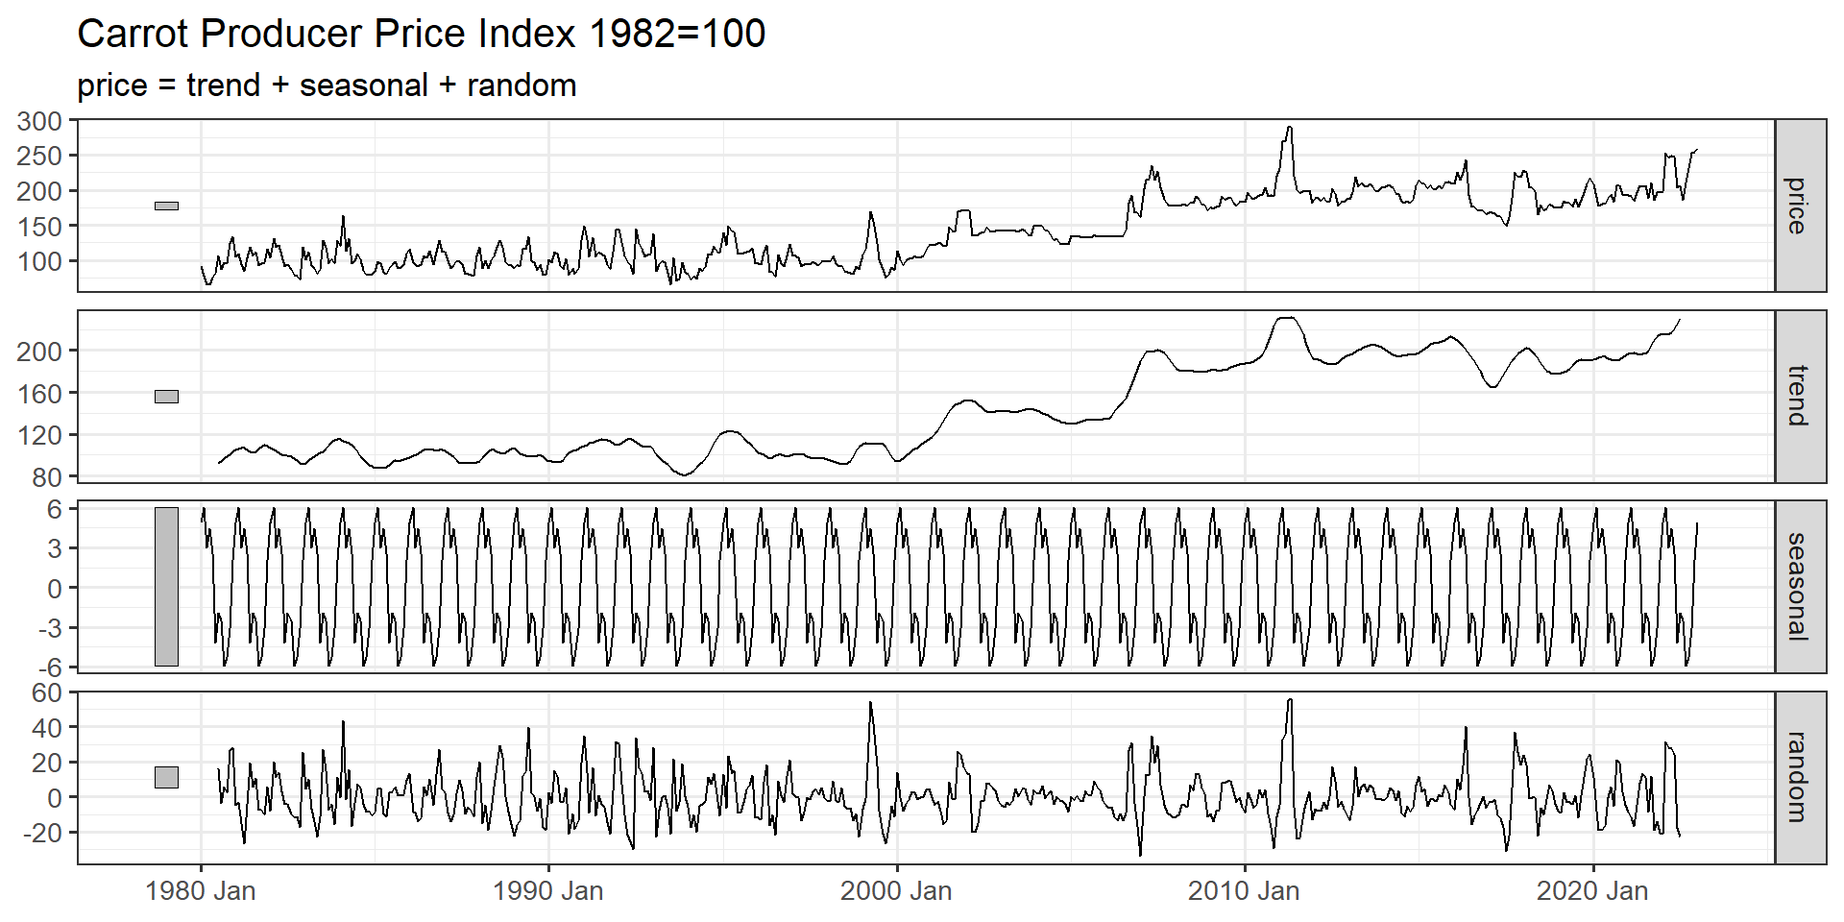
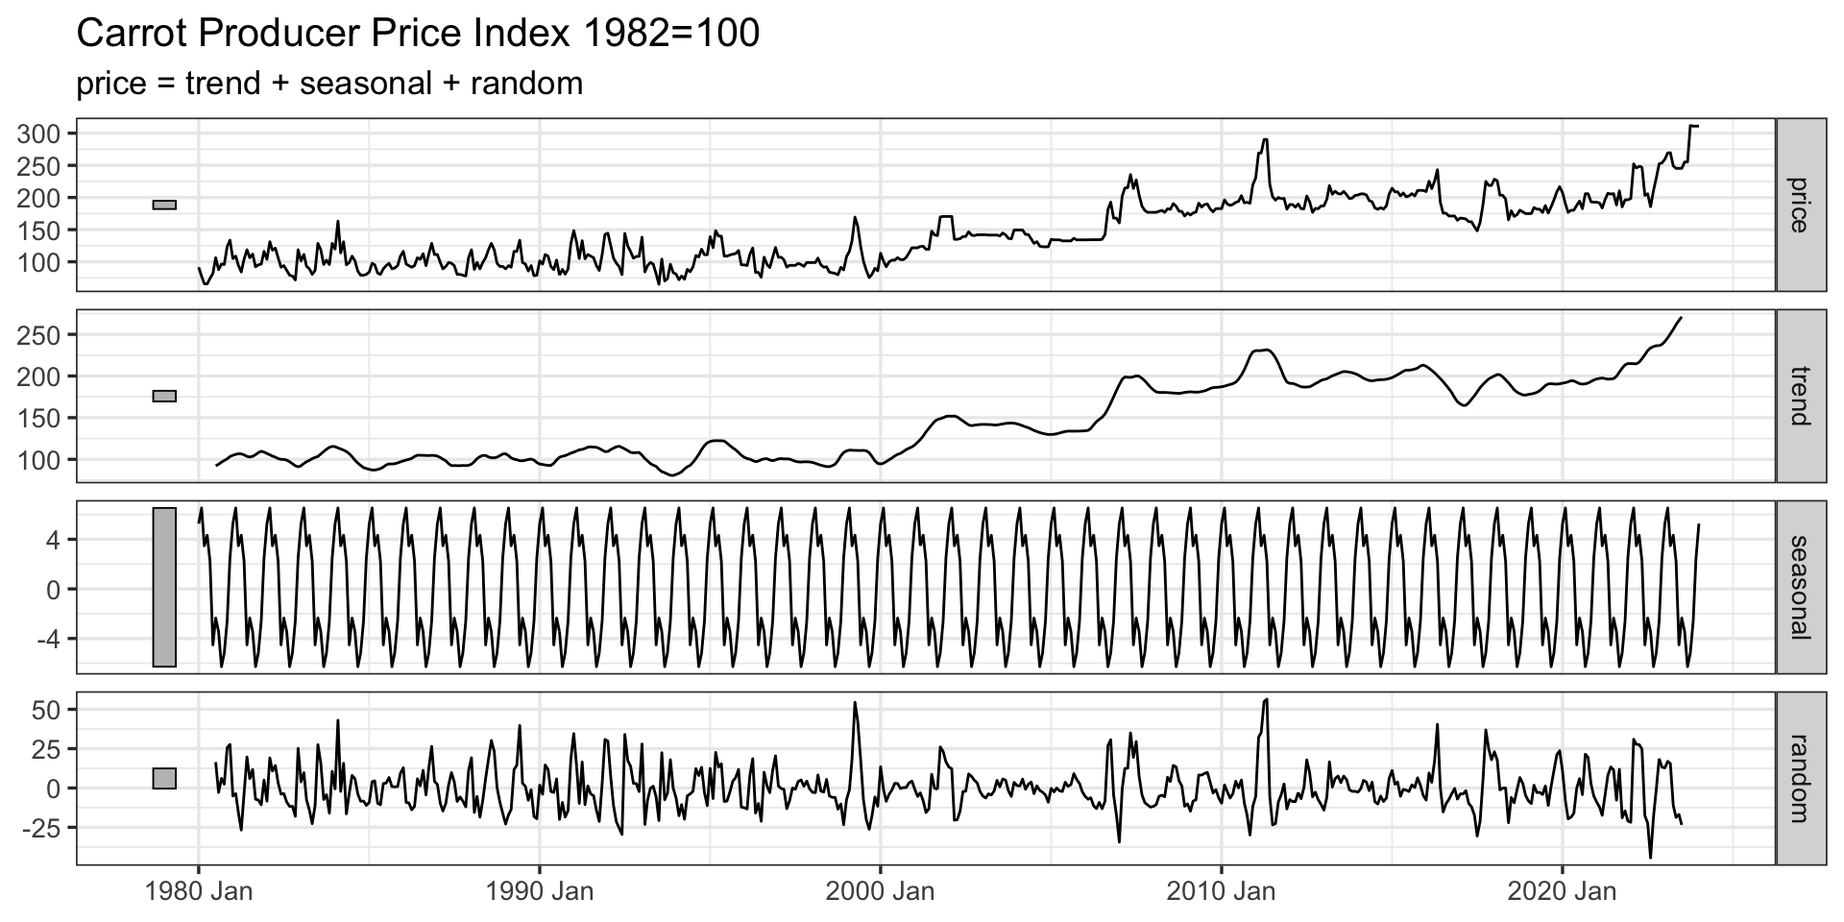
update forecast and conclusions for unit 1 week 4 slides

diff --git a/materials/unit_01/week_04/lecture_01_week_04_files/libs/clipboard/clipboard.min.js b/materials/unit_01/week_04/lecture_01_week_04_files/libs/clipboard/clipboard.min.js
@@ -1,7 +1,7 @@
 /*!
- * clipboard.js v2.0.10
+ * clipboard.js v2.0.11
  * https://clipboardjs.com/
  *
  * Licensed MIT © Zeno Rocha
  */
-!function(t,e){"object"==typeof exports&&"object"==typeof module?module.exports=e():"function"==typeof define&&define.amd?define([],e):"object"==typeof exports?exports.ClipboardJS=e():t.ClipboardJS=e()}(this,function(){return n={686:function(t,e,n){"use strict";n.d(e,{default:function(){return o}});var e=n(279),i=n.n(e),e=n(370),u=n.n(e),e=n(817),c=n.n(e);function a(t){try{return document.execCommand(t)}catch(t){return}}var f=function(t){t=c()(t);return a("cut"),t};var l=function(t){var e,n,o,r=1<arguments.length&&void 0!==arguments[1]?arguments[1]:{container:document.body},i="";return"string"==typeof t?(e=t,n="rtl"===document.documentElement.getAttribute("dir"),(o=document.createElement("textarea")).style.fontSize="12pt",o.style.border="0",o.style.padding="0",o.style.margin="0",o.style.position="absolute",o.style[n?"right":"left"]="-9999px",n=window.pageYOffset||document.documentElement.scrollTop,o.style.top="".concat(n,"px"),o.setAttribute("readonly",""),o.value=e,o=o,r.container.appendChild(o),i=c()(o),a("copy"),o.remove()):(i=c()(t),a("copy")),i};function r(t){return(r="function"==typeof Symbol&&"symbol"==typeof Symbol.iterator?function(t){return typeof t}:function(t){return t&&"function"==typeof Symbol&&t.constructor===Symbol&&t!==Symbol.prototype?"symbol":typeof t})(t)}var s=function(){var t=0<arguments.length&&void 0!==arguments[0]?arguments[0]:{},e=t.action,n=void 0===e?"copy":e,o=t.container,e=t.target,t=t.text;if("copy"!==n&&"cut"!==n)throw new Error('Invalid "action" value, use either "copy" or "cut"');if(void 0!==e){if(!e||"object"!==r(e)||1!==e.nodeType)throw new Error('Invalid "target" value, use a valid Element');if("copy"===n&&e.hasAttribute("disabled"))throw new Error('Invalid "target" attribute. Please use "readonly" instead of "disabled" attribute');if("cut"===n&&(e.hasAttribute("readonly")||e.hasAttribute("disabled")))throw new Error('Invalid "target" attribute. You can\'t cut text from elements with "readonly" or "disabled" attributes')}return t?l(t,{container:o}):e?"cut"===n?f(e):l(e,{container:o}):void 0};function p(t){return(p="function"==typeof Symbol&&"symbol"==typeof Symbol.iterator?function(t){return typeof t}:function(t){return t&&"function"==typeof Symbol&&t.constructor===Symbol&&t!==Symbol.prototype?"symbol":typeof t})(t)}function d(t,e){for(var n=0;n<e.length;n++){var o=e[n];o.enumerable=o.enumerable||!1,o.configurable=!0,"value"in o&&(o.writable=!0),Object.defineProperty(t,o.key,o)}}function y(t,e){return(y=Object.setPrototypeOf||function(t,e){return t.__proto__=e,t})(t,e)}function h(n){var o=function(){if("undefined"==typeof Reflect||!Reflect.construct)return!1;if(Reflect.construct.sham)return!1;if("function"==typeof Proxy)return!0;try{return Date.prototype.toString.call(Reflect.construct(Date,[],function(){})),!0}catch(t){return!1}}();return function(){var t,e=m(n);return t=o?(t=m(this).constructor,Reflect.construct(e,arguments,t)):e.apply(this,arguments),e=this,!(t=t)||"object"!==p(t)&&"function"!=typeof t?function(t){if(void 0!==t)return t;throw new ReferenceError("this hasn't been initialised - super() hasn't been called")}(e):t}}function m(t){return(m=Object.setPrototypeOf?Object.getPrototypeOf:function(t){return t.__proto__||Object.getPrototypeOf(t)})(t)}function v(t,e){t="data-clipboard-".concat(t);if(e.hasAttribute(t))return e.getAttribute(t)}var o=function(){!function(t,e){if("function"!=typeof e&&null!==e)throw new TypeError("Super expression must either be null or a function");t.prototype=Object.create(e&&e.prototype,{constructor:{value:t,writable:!0,configurable:!0}}),e&&y(t,e)}(r,i());var t,e,n,o=h(r);function r(t,e){var n;return function(t){if(!(t instanceof r))throw new TypeError("Cannot call a class as a function")}(this),(n=o.call(this)).resolveOptions(e),n.listenClick(t),n}return t=r,n=[{key:"copy",value:function(t){var e=1<arguments.length&&void 0!==arguments[1]?arguments[1]:{container:document.body};return l(t,e)}},{key:"cut",value:function(t){return f(t)}},{key:"isSupported",value:function(){var t=0<arguments.length&&void 0!==arguments[0]?arguments[0]:["copy","cut"],t="string"==typeof t?[t]:t,e=!!document.queryCommandSupported;return t.forEach(function(t){e=e&&!!document.queryCommandSupported(t)}),e}}],(e=[{key:"resolveOptions",value:function(){var t=0<arguments.length&&void 0!==arguments[0]?arguments[0]:{};this.action="function"==typeof t.action?t.action:this.defaultAction,this.target="function"==typeof t.target?t.target:this.defaultTarget,this.text="function"==typeof t.text?t.text:this.defaultText,this.container="object"===p(t.container)?t.container:document.body}},{key:"listenClick",value:function(t){var e=this;this.listener=u()(t,"click",function(t){return e.onClick(t)})}},{key:"onClick",value:function(t){var e=t.delegateTarget||t.currentTarget,n=this.action(e)||"copy",t=s({action:n,container:this.container,target:this.target(e),text:this.text(e)});this.emit(t?"success":"error",{action:n,text:t,trigger:e,clearSelection:function(){e&&e.focus(),document.activeElement.blur(),window.getSelection().removeAllRanges()}})}},{key:"defaultAction",value:function(t){return v("action",t)}},{key:"defaultTarget",value:function(t){t=v("target",t);if(t)return document.querySelector(t)}},{key:"defaultText",value:function(t){return v("text",t)}},{key:"destroy",value:function(){this.listener.destroy()}}])&&d(t.prototype,e),n&&d(t,n),r}()},828:function(t){var e;"undefined"==typeof Element||Element.prototype.matches||((e=Element.prototype).matches=e.matchesSelector||e.mozMatchesSelector||e.msMatchesSelector||e.oMatchesSelector||e.webkitMatchesSelector),t.exports=function(t,e){for(;t&&9!==t.nodeType;){if("function"==typeof t.matches&&t.matches(e))return t;t=t.parentNode}}},438:function(t,e,n){var u=n(828);function i(t,e,n,o,r){var i=function(e,n,t,o){return function(t){t.delegateTarget=u(t.target,n),t.delegateTarget&&o.call(e,t)}}.apply(this,arguments);return t.addEventListener(n,i,r),{destroy:function(){t.removeEventListener(n,i,r)}}}t.exports=function(t,e,n,o,r){return"function"==typeof t.addEventListener?i.apply(null,arguments):"function"==typeof n?i.bind(null,document).apply(null,arguments):("string"==typeof t&&(t=document.querySelectorAll(t)),Array.prototype.map.call(t,function(t){return i(t,e,n,o,r)}))}},879:function(t,n){n.node=function(t){return void 0!==t&&t instanceof HTMLElement&&1===t.nodeType},n.nodeList=function(t){var e=Object.prototype.toString.call(t);return void 0!==t&&("[object NodeList]"===e||"[object HTMLCollection]"===e)&&"length"in t&&(0===t.length||n.node(t[0]))},n.string=function(t){return"string"==typeof t||t instanceof String},n.fn=function(t){return"[object Function]"===Object.prototype.toString.call(t)}},370:function(t,e,n){var f=n(879),l=n(438);t.exports=function(t,e,n){if(!t&&!e&&!n)throw new Error("Missing required arguments");if(!f.string(e))throw new TypeError("Second argument must be a String");if(!f.fn(n))throw new TypeError("Third argument must be a Function");if(f.node(t))return c=e,a=n,(u=t).addEventListener(c,a),{destroy:function(){u.removeEventListener(c,a)}};if(f.nodeList(t))return o=t,r=e,i=n,Array.prototype.forEach.call(o,function(t){t.addEventListener(r,i)}),{destroy:function(){Array.prototype.forEach.call(o,function(t){t.removeEventListener(r,i)})}};if(f.string(t))return t=t,e=e,n=n,l(document.body,t,e,n);throw new TypeError("First argument must be a String, HTMLElement, HTMLCollection, or NodeList");var o,r,i,u,c,a}},817:function(t){t.exports=function(t){var e,n="SELECT"===t.nodeName?(t.focus(),t.value):"INPUT"===t.nodeName||"TEXTAREA"===t.nodeName?((e=t.hasAttribute("readonly"))||t.setAttribute("readonly",""),t.select(),t.setSelectionRange(0,t.value.length),e||t.removeAttribute("readonly"),t.value):(t.hasAttribute("contenteditable")&&t.focus(),n=window.getSelection(),(e=document.createRange()).selectNodeContents(t),n.removeAllRanges(),n.addRange(e),n.toString());return n}},279:function(t){function e(){}e.prototype={on:function(t,e,n){var o=this.e||(this.e={});return(o[t]||(o[t]=[])).push({fn:e,ctx:n}),this},once:function(t,e,n){var o=this;function r(){o.off(t,r),e.apply(n,arguments)}return r._=e,this.on(t,r,n)},emit:function(t){for(var e=[].slice.call(arguments,1),n=((this.e||(this.e={}))[t]||[]).slice(),o=0,r=n.length;o<r;o++)n[o].fn.apply(n[o].ctx,e);return this},off:function(t,e){var n=this.e||(this.e={}),o=n[t],r=[];if(o&&e)for(var i=0,u=o.length;i<u;i++)o[i].fn!==e&&o[i].fn._!==e&&r.push(o[i]);return r.length?n[t]=r:delete n[t],this}},t.exports=e,t.exports.TinyEmitter=e}},r={},o.n=function(t){var e=t&&t.__esModule?function(){return t.default}:function(){return t};return o.d(e,{a:e}),e},o.d=function(t,e){for(var n in e)o.o(e,n)&&!o.o(t,n)&&Object.defineProperty(t,n,{enumerable:!0,get:e[n]})},o.o=function(t,e){return Object.prototype.hasOwnProperty.call(t,e)},o(686).default;function o(t){if(r[t])return r[t].exports;var e=r[t]={exports:{}};return n[t](e,e.exports,o),e.exports}var n,r});
+!function(t,e){"object"==typeof exports&&"object"==typeof module?module.exports=e():"function"==typeof define&&define.amd?define([],e):"object"==typeof exports?exports.ClipboardJS=e():t.ClipboardJS=e()}(this,function(){return n={686:function(t,e,n){"use strict";n.d(e,{default:function(){return b}});var e=n(279),i=n.n(e),e=n(370),u=n.n(e),e=n(817),r=n.n(e);function c(t){try{return document.execCommand(t)}catch(t){return}}var a=function(t){t=r()(t);return c("cut"),t};function o(t,e){var n,o,t=(n=t,o="rtl"===document.documentElement.getAttribute("dir"),(t=document.createElement("textarea")).style.fontSize="12pt",t.style.border="0",t.style.padding="0",t.style.margin="0",t.style.position="absolute",t.style[o?"right":"left"]="-9999px",o=window.pageYOffset||document.documentElement.scrollTop,t.style.top="".concat(o,"px"),t.setAttribute("readonly",""),t.value=n,t);return e.container.appendChild(t),e=r()(t),c("copy"),t.remove(),e}var f=function(t){var e=1<arguments.length&&void 0!==arguments[1]?arguments[1]:{container:document.body},n="";return"string"==typeof t?n=o(t,e):t instanceof HTMLInputElement&&!["text","search","url","tel","password"].includes(null==t?void 0:t.type)?n=o(t.value,e):(n=r()(t),c("copy")),n};function l(t){return(l="function"==typeof Symbol&&"symbol"==typeof Symbol.iterator?function(t){return typeof t}:function(t){return t&&"function"==typeof Symbol&&t.constructor===Symbol&&t!==Symbol.prototype?"symbol":typeof t})(t)}var s=function(){var t=0<arguments.length&&void 0!==arguments[0]?arguments[0]:{},e=t.action,n=void 0===e?"copy":e,o=t.container,e=t.target,t=t.text;if("copy"!==n&&"cut"!==n)throw new Error('Invalid "action" value, use either "copy" or "cut"');if(void 0!==e){if(!e||"object"!==l(e)||1!==e.nodeType)throw new Error('Invalid "target" value, use a valid Element');if("copy"===n&&e.hasAttribute("disabled"))throw new Error('Invalid "target" attribute. Please use "readonly" instead of "disabled" attribute');if("cut"===n&&(e.hasAttribute("readonly")||e.hasAttribute("disabled")))throw new Error('Invalid "target" attribute. You can\'t cut text from elements with "readonly" or "disabled" attributes')}return t?f(t,{container:o}):e?"cut"===n?a(e):f(e,{container:o}):void 0};function p(t){return(p="function"==typeof Symbol&&"symbol"==typeof Symbol.iterator?function(t){return typeof t}:function(t){return t&&"function"==typeof Symbol&&t.constructor===Symbol&&t!==Symbol.prototype?"symbol":typeof t})(t)}function d(t,e){for(var n=0;n<e.length;n++){var o=e[n];o.enumerable=o.enumerable||!1,o.configurable=!0,"value"in o&&(o.writable=!0),Object.defineProperty(t,o.key,o)}}function y(t,e){return(y=Object.setPrototypeOf||function(t,e){return t.__proto__=e,t})(t,e)}function h(n){var o=function(){if("undefined"==typeof Reflect||!Reflect.construct)return!1;if(Reflect.construct.sham)return!1;if("function"==typeof Proxy)return!0;try{return Date.prototype.toString.call(Reflect.construct(Date,[],function(){})),!0}catch(t){return!1}}();return function(){var t,e=v(n);return t=o?(t=v(this).constructor,Reflect.construct(e,arguments,t)):e.apply(this,arguments),e=this,!(t=t)||"object"!==p(t)&&"function"!=typeof t?function(t){if(void 0!==t)return t;throw new ReferenceError("this hasn't been initialised - super() hasn't been called")}(e):t}}function v(t){return(v=Object.setPrototypeOf?Object.getPrototypeOf:function(t){return t.__proto__||Object.getPrototypeOf(t)})(t)}function m(t,e){t="data-clipboard-".concat(t);if(e.hasAttribute(t))return e.getAttribute(t)}var b=function(){!function(t,e){if("function"!=typeof e&&null!==e)throw new TypeError("Super expression must either be null or a function");t.prototype=Object.create(e&&e.prototype,{constructor:{value:t,writable:!0,configurable:!0}}),e&&y(t,e)}(r,i());var t,e,n,o=h(r);function r(t,e){var n;return function(t){if(!(t instanceof r))throw new TypeError("Cannot call a class as a function")}(this),(n=o.call(this)).resolveOptions(e),n.listenClick(t),n}return t=r,n=[{key:"copy",value:function(t){var e=1<arguments.length&&void 0!==arguments[1]?arguments[1]:{container:document.body};return f(t,e)}},{key:"cut",value:function(t){return a(t)}},{key:"isSupported",value:function(){var t=0<arguments.length&&void 0!==arguments[0]?arguments[0]:["copy","cut"],t="string"==typeof t?[t]:t,e=!!document.queryCommandSupported;return t.forEach(function(t){e=e&&!!document.queryCommandSupported(t)}),e}}],(e=[{key:"resolveOptions",value:function(){var t=0<arguments.length&&void 0!==arguments[0]?arguments[0]:{};this.action="function"==typeof t.action?t.action:this.defaultAction,this.target="function"==typeof t.target?t.target:this.defaultTarget,this.text="function"==typeof t.text?t.text:this.defaultText,this.container="object"===p(t.container)?t.container:document.body}},{key:"listenClick",value:function(t){var e=this;this.listener=u()(t,"click",function(t){return e.onClick(t)})}},{key:"onClick",value:function(t){var e=t.delegateTarget||t.currentTarget,n=this.action(e)||"copy",t=s({action:n,container:this.container,target:this.target(e),text:this.text(e)});this.emit(t?"success":"error",{action:n,text:t,trigger:e,clearSelection:function(){e&&e.focus(),window.getSelection().removeAllRanges()}})}},{key:"defaultAction",value:function(t){return m("action",t)}},{key:"defaultTarget",value:function(t){t=m("target",t);if(t)return document.querySelector(t)}},{key:"defaultText",value:function(t){return m("text",t)}},{key:"destroy",value:function(){this.listener.destroy()}}])&&d(t.prototype,e),n&&d(t,n),r}()},828:function(t){var e;"undefined"==typeof Element||Element.prototype.matches||((e=Element.prototype).matches=e.matchesSelector||e.mozMatchesSelector||e.msMatchesSelector||e.oMatchesSelector||e.webkitMatchesSelector),t.exports=function(t,e){for(;t&&9!==t.nodeType;){if("function"==typeof t.matches&&t.matches(e))return t;t=t.parentNode}}},438:function(t,e,n){var u=n(828);function i(t,e,n,o,r){var i=function(e,n,t,o){return function(t){t.delegateTarget=u(t.target,n),t.delegateTarget&&o.call(e,t)}}.apply(this,arguments);return t.addEventListener(n,i,r),{destroy:function(){t.removeEventListener(n,i,r)}}}t.exports=function(t,e,n,o,r){return"function"==typeof t.addEventListener?i.apply(null,arguments):"function"==typeof n?i.bind(null,document).apply(null,arguments):("string"==typeof t&&(t=document.querySelectorAll(t)),Array.prototype.map.call(t,function(t){return i(t,e,n,o,r)}))}},879:function(t,n){n.node=function(t){return void 0!==t&&t instanceof HTMLElement&&1===t.nodeType},n.nodeList=function(t){var e=Object.prototype.toString.call(t);return void 0!==t&&("[object NodeList]"===e||"[object HTMLCollection]"===e)&&"length"in t&&(0===t.length||n.node(t[0]))},n.string=function(t){return"string"==typeof t||t instanceof String},n.fn=function(t){return"[object Function]"===Object.prototype.toString.call(t)}},370:function(t,e,n){var f=n(879),l=n(438);t.exports=function(t,e,n){if(!t&&!e&&!n)throw new Error("Missing required arguments");if(!f.string(e))throw new TypeError("Second argument must be a String");if(!f.fn(n))throw new TypeError("Third argument must be a Function");if(f.node(t))return c=e,a=n,(u=t).addEventListener(c,a),{destroy:function(){u.removeEventListener(c,a)}};if(f.nodeList(t))return o=t,r=e,i=n,Array.prototype.forEach.call(o,function(t){t.addEventListener(r,i)}),{destroy:function(){Array.prototype.forEach.call(o,function(t){t.removeEventListener(r,i)})}};if(f.string(t))return t=t,e=e,n=n,l(document.body,t,e,n);throw new TypeError("First argument must be a String, HTMLElement, HTMLCollection, or NodeList");var o,r,i,u,c,a}},817:function(t){t.exports=function(t){var e,n="SELECT"===t.nodeName?(t.focus(),t.value):"INPUT"===t.nodeName||"TEXTAREA"===t.nodeName?((e=t.hasAttribute("readonly"))||t.setAttribute("readonly",""),t.select(),t.setSelectionRange(0,t.value.length),e||t.removeAttribute("readonly"),t.value):(t.hasAttribute("contenteditable")&&t.focus(),n=window.getSelection(),(e=document.createRange()).selectNodeContents(t),n.removeAllRanges(),n.addRange(e),n.toString());return n}},279:function(t){function e(){}e.prototype={on:function(t,e,n){var o=this.e||(this.e={});return(o[t]||(o[t]=[])).push({fn:e,ctx:n}),this},once:function(t,e,n){var o=this;function r(){o.off(t,r),e.apply(n,arguments)}return r._=e,this.on(t,r,n)},emit:function(t){for(var e=[].slice.call(arguments,1),n=((this.e||(this.e={}))[t]||[]).slice(),o=0,r=n.length;o<r;o++)n[o].fn.apply(n[o].ctx,e);return this},off:function(t,e){var n=this.e||(this.e={}),o=n[t],r=[];if(o&&e)for(var i=0,u=o.length;i<u;i++)o[i].fn!==e&&o[i].fn._!==e&&r.push(o[i]);return r.length?n[t]=r:delete n[t],this}},t.exports=e,t.exports.TinyEmitter=e}},r={},o.n=function(t){var e=t&&t.__esModule?function(){return t.default}:function(){return t};return o.d(e,{a:e}),e},o.d=function(t,e){for(var n in e)o.o(e,n)&&!o.o(t,n)&&Object.defineProperty(t,n,{enumerable:!0,get:e[n]})},o.o=function(t,e){return Object.prototype.hasOwnProperty.call(t,e)},o(686).default;function o(t){if(r[t])return r[t].exports;var e=r[t]={exports:{}};return n[t](e,e.exports,o),e.exports}var n,r});

diff --git a/materials/unit_01/week_04/lecture_01_week_04.html b/materials/unit_01/week_04/lecture_01_week_04.html
@@ -335,8 +335,8 @@
 <p>Project 1 reminder and details</p>
 <p>Example project</p>
 </section>
-<section id="project-overview" class="title-slide slide level1 scrollable center">
-<h1>Project Overview</h1>
+<section id="project-overview" class="slide level2 scrollable">
+<h2>Project Overview</h2>
 <p>Three parts:</p>
 <ol type="1">
 <li><p>Presentation video</p></li>
@@ -347,7 +347,11 @@
 <p>Have a hook to grab the audience attention, give your audience context, pose your question, then answer it</p>
 <p><a href="../week_03/ps7.html">Project Instructions</a></p>
 </section>
-
+<section id="context" class="slide level2 scrollable">
+<h2>Context</h2>
+<p>We are analysts at The Carrot Project; you are growers attending a workshop</p>
+<iframe width="80%" height="500" src="https://www.thecarrotproject.org/"></iframe>
+</section>
 <section>
 <section id="will-carrot-prices-continue-to-rise" class="title-slide slide level1 center">
 <h1>Will carrot prices continue to rise?</h1>
@@ -369,7 +373,7 @@
 <section id="current-state-of-carrot-prices" class="slide level2">
 <h2>Current State of Carrot Prices</h2>
 
-<img data-src="lecture_01_week_04_files/figure-revealjs/unnamed-chunk-2-1.png" width="1440" class="r-stretch quarto-figure-center"><p class="caption">Trend calculated from STL decomposition using LOESS</p></section>
+<img data-src="lecture_01_week_04_files/figure-revealjs/unnamed-chunk-2-1.png" width="1440" class="r-stretch quarto-figure-center"><p class="caption">Trend (orange) calculated from STL decomposition using LOESS. The Producer Price Index (PPI) program measures the average change over time in the selling prices received by domestic producers for their output.</p></section>
 <section id="is-it-just-seasonality" class="slide level2">
 <h2>Is it just seasonality?</h2>
 
@@ -387,23 +391,50 @@
 <h2>Forecast Scenario: high prices persist</h2>
 
 <img data-src="lecture_01_week_04_files/figure-revealjs/unnamed-chunk-5-1.png" width="1248" class="r-stretch quarto-figure-center"><p class="caption">Forecast based on exponential smoothing of components</p></section>
-<section id="forecast-scenario-high-prices-subside" class="slide level2">
-<h2>Forecast Scenario: high prices subside</h2>
+<section id="forecast-from-jan-2023-for-bekzat" class="slide level2">
+<h2>Forecast from Jan 2023 (for Bekzat)</h2>
 
-<img data-src="lecture_01_week_04_files/figure-revealjs/unnamed-chunk-6-1.png" width="960" class="r-stretch quarto-figure-center"><p class="caption">Same ETS forecast based on data truncated at January 2021</p></section>
+<img data-src="lecture_01_week_04_files/figure-revealjs/unnamed-chunk-6-1.png" width="960" class="r-stretch quarto-figure-center"><p class="caption">Same ETS forecast based on data truncated at January 2023</p></section>
 <section id="conclusion" class="slide level2">
 <h2>Conclusion</h2>
+<p>Carrot prices are near all time highs</p>
+<p>If current prices remain high, the price index is expected to reach nearly 350</p>
+<p>Our guess: Carrot prices continue to grow but at a slower rate</p>
+</section></section>
+<section>
+<section id="questions" class="title-slide slide level1 center">
+<h1>Questions</h1>
+
+</section>
+<section id="conclusion-from-last-year" class="slide level2">
+<h2>Conclusion (from last year)</h2>
 <p>Carrot prices are near all time highs</p>
 <p>If current prices remain high, the price index is expected to reach nearly 300</p>
 <p>If current prices subside, the price index is expected to remain below 250</p>
 <p>Our guess: Carrot prices subside then gradually increase because of declining trend in fertilizer</p>
-</section></section>
-<section id="questions" class="title-slide slide level1 center">
-<h1>Questions</h1>
+<!-- ## Other forecasts -->
+<!-- ```{r} -->
+<!-- #| echo: false -->
+<!-- #| fig-width: 10 -->
+<!-- #| fig-align: center -->
+<!-- #| fig-cap: "Same ETS forecast based on data truncated at January 2023" -->
+<!-- #Forecast -->
+<!-- carrot_ts %>% -->
+<!--   filter(date>yearmonth("2010 Jan")) %>% -->
+<!--   model( -->
+<!--     #additive = ETS(price ~ error("A") + trend("A") + season("A")), -->
+<!--     NN = NNETAR(price,n_networks = 5) -->
+<!--   ) %>% -->
+<!--   forecast(h = "1 years") %>% -->
+<!--   mutate(date=date) %>% -->
+<!--   autoplot(carrot_ts %>% filter(date>yearmonth("2000 Jan")),level=80) + -->
+<!--   labs(y=NULL,x=NULL,title = "Carrot Producer Price Index 1982=100") + -->
+<!--   theme_bw(base_size = 13) -->
+<!-- ``` -->
 <div class="footer footer-default">
 
 </div>
-</section>
+</section></section>
     </div>
   </div>
 

diff --git a/materials/unit_01/week_04/lecture_01_week_04_files/libs/revealjs/plugin/reveal-menu/quarto-menu.js b/materials/unit_01/week_04/lecture_01_week_04_files/libs/revealjs/plugin/reveal-menu/quarto-menu.js
@@ -37,4 +37,7 @@ window.RevealMenuToolHandlers = {
   downloadDrawings: revealMenuToolHandler(function () {
     RevealChalkboard.download();
   }),
+  togglePdfExport: revealMenuToolHandler(function () {
+    PdfExport.togglePdfExport();
+  }),
 };

diff --git a/materials/unit_01/week_04/lecture_01_week_04_files/libs/revealjs/plugin/pdf-export/pdfexport.js b/materials/unit_01/week_04/lecture_01_week_04_files/libs/revealjs/plugin/pdf-export/pdfexport.js
@@ -101,6 +101,9 @@ var PdfExport = ( function( _Reveal ){
 			Reveal = _Reveal;
 			install();
 		};
+		Plugin.togglePdfExport = function () {
+      togglePdfExport();
+    };
 	}
 
 	return Plugin;

diff --git a/materials/unit_01/week_04/lecture_01_week_04_files/libs/revealjs/plugin/quarto-support/footer.css b/materials/unit_01/week_04/lecture_01_week_04_files/libs/revealjs/plugin/quarto-support/footer.css
@@ -6,6 +6,7 @@
   max-height: 2.2rem;
   height: 100%;
   width: auto;
+  z-index: 2;
 }
 
 .reveal .footer {
